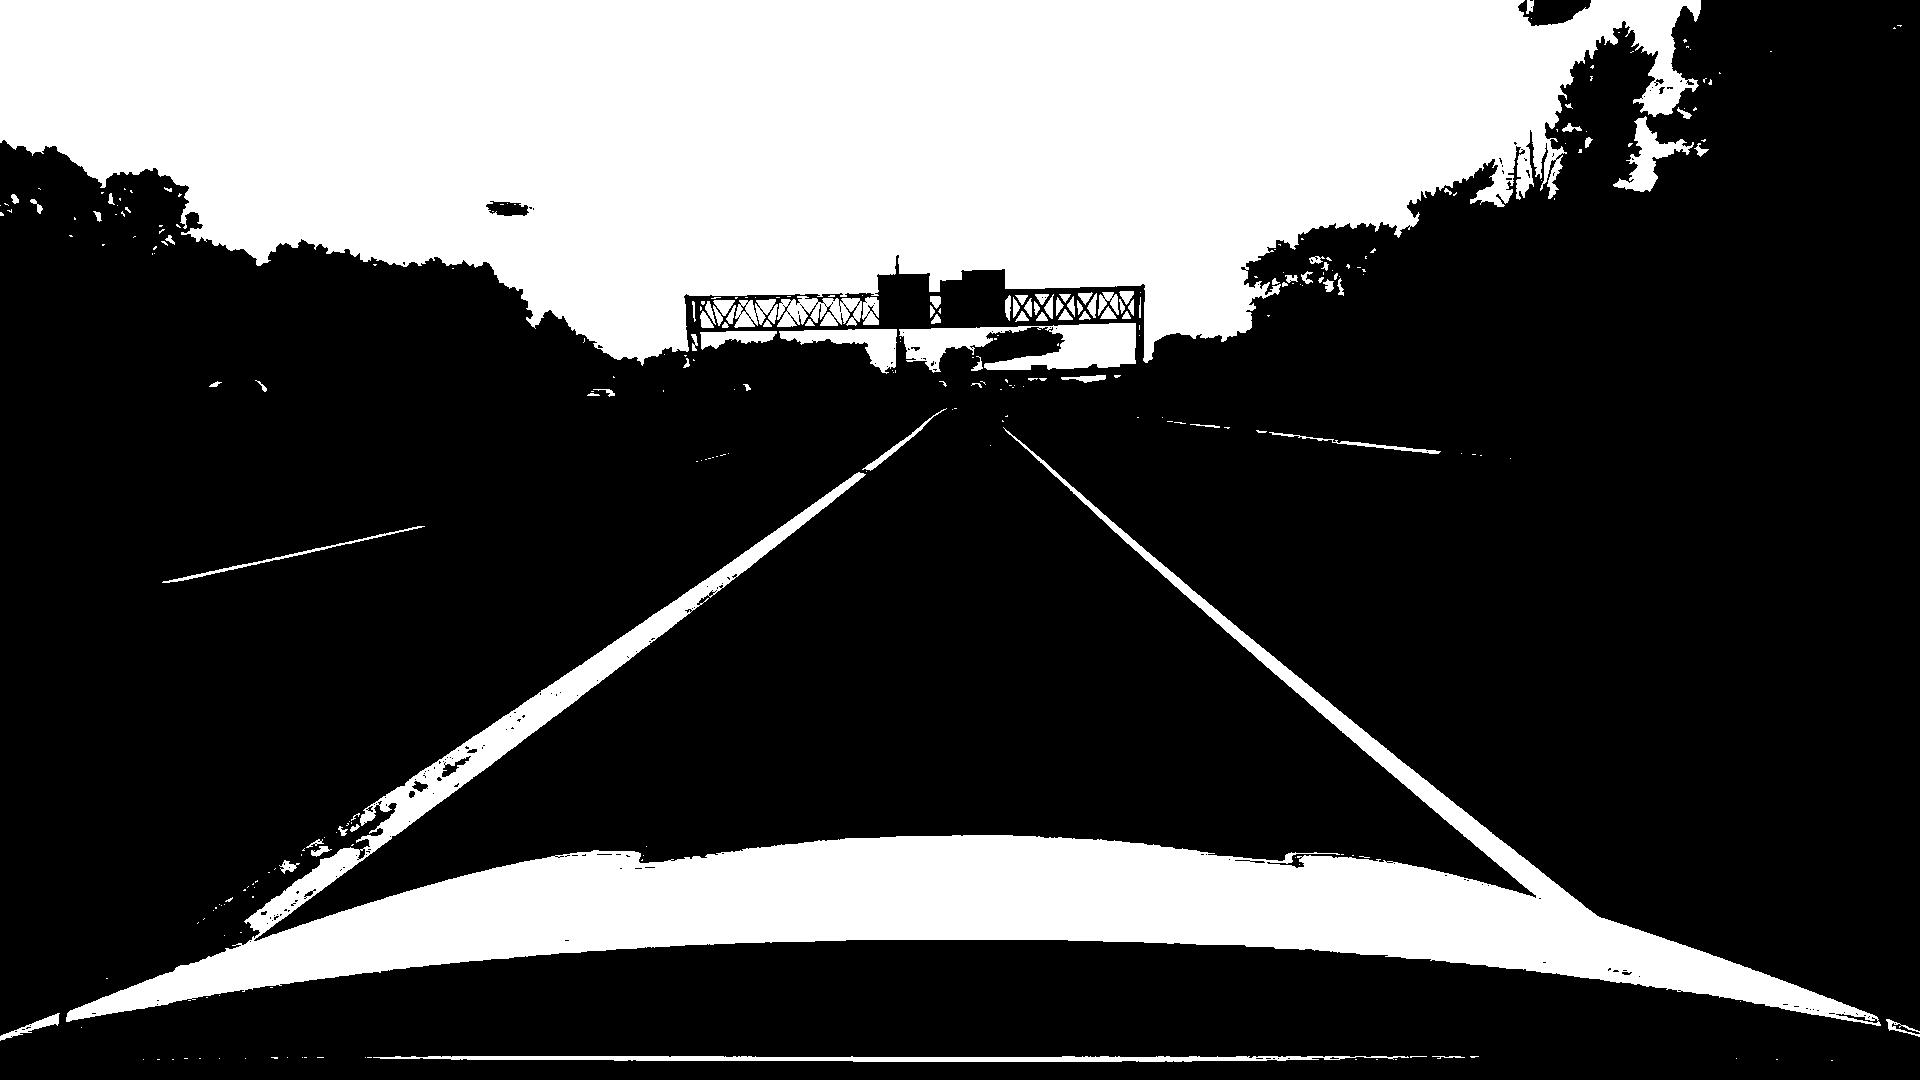
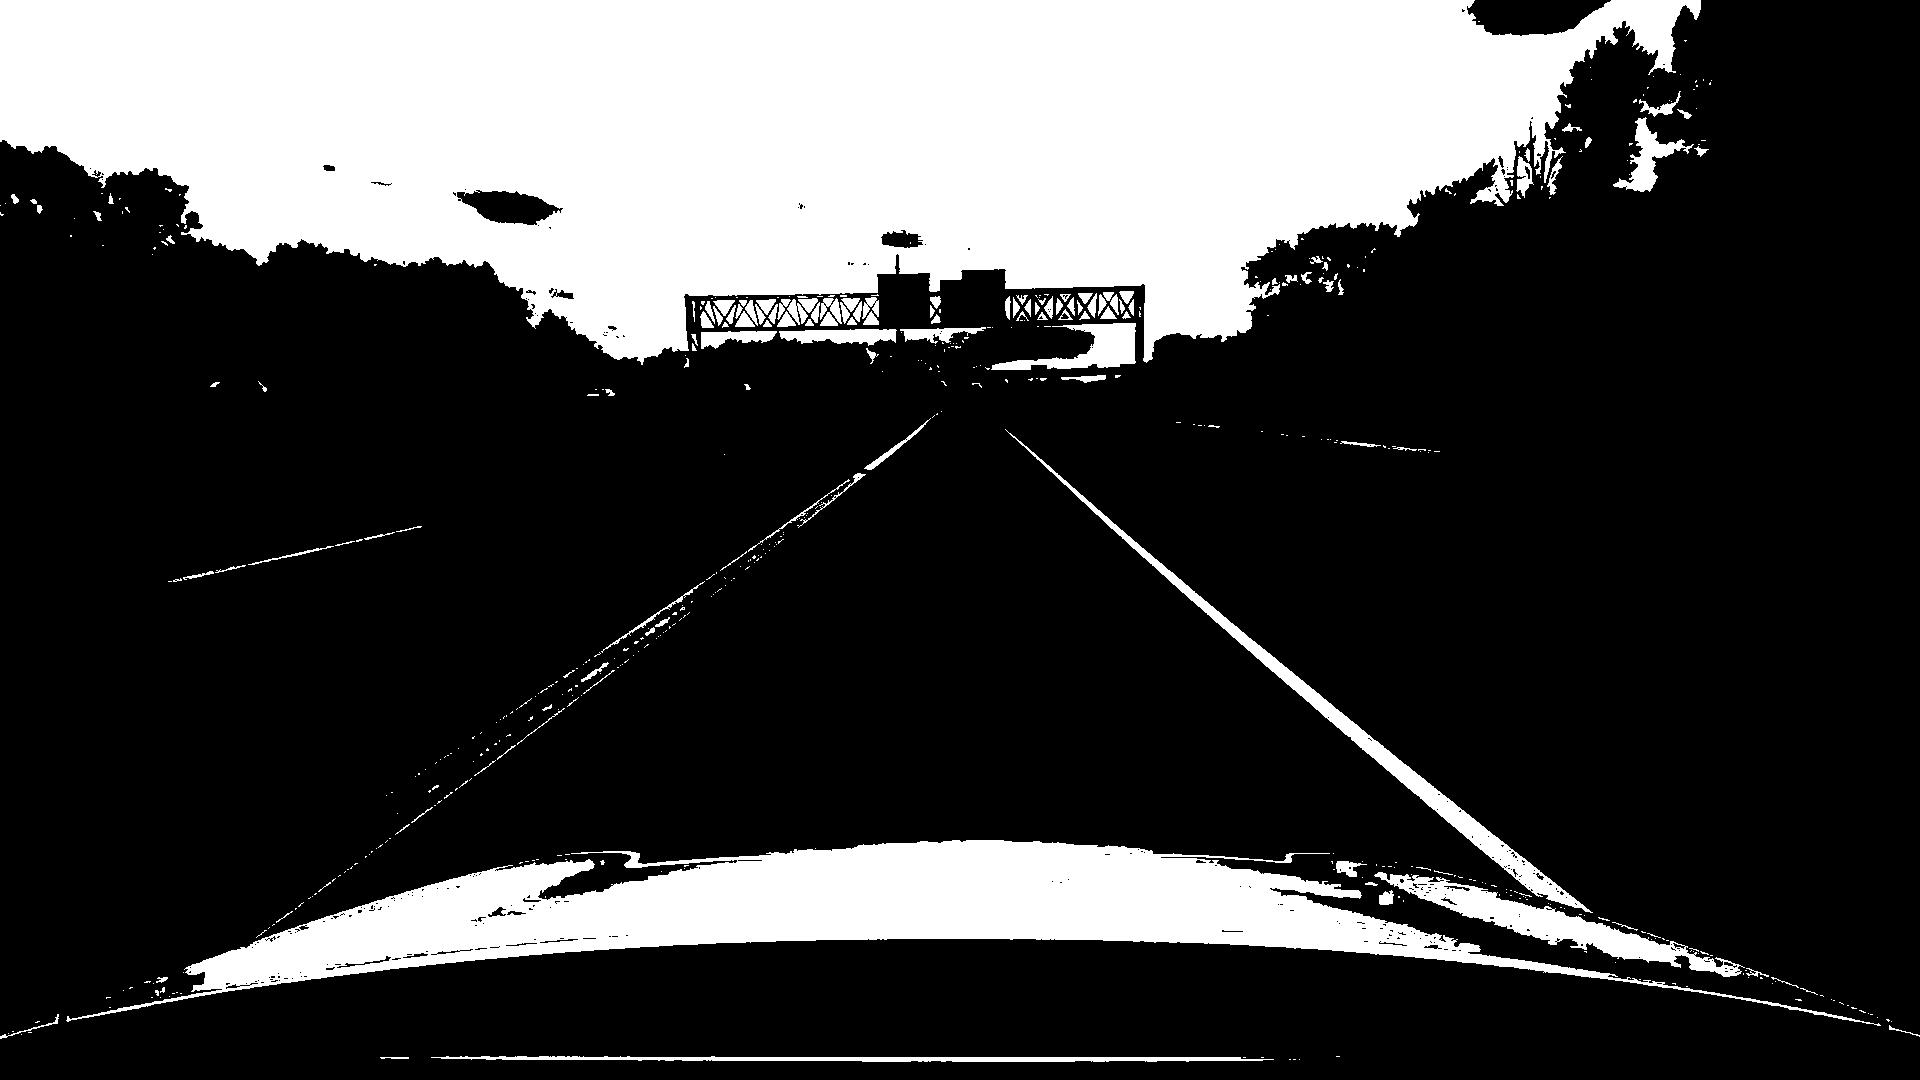
sobel mag image added with tweaked parameters for combined images

diff --git a/rough_work/test_image.py b/rough_work/test_image.py
@@ -4,7 +4,6 @@ import numpy as np
 import matplotlib.pyplot as plt
 import matplotlib.image as mpimg
 import glob
-import natsort
 import pickle
 
 
@@ -69,7 +68,7 @@ def abs_sobel_thresh(img, orient = 'x', sobel_kernel = 5, thresh = (0,255)):
 
 # this function accepts a RGB format image
 # function to check binary image of sobel magnitude
-def mag_sobel(img, sobel_kernel=3, thresh = (0,255)):
+def mag_sobel(img, sobel_kernel=3, thresh = (30,100)):
 
     # 1. Applying the Sobel (taking the derivative)
     sobelx = cv2.Sobel(img, cv2.CV_64F, 1, 0, ksize = sobel_kernel)
@@ -81,6 +80,7 @@ def mag_sobel(img, sobel_kernel=3, thresh = (0,255)):
     # 4. Create mask of '1's where the scaled gradient magnitude is > thresh_min and < thresh_max
     sobel_mag_image = np.zeros_like(scaled_sobel)
     sobel_mag_image[(scaled_sobel >= thresh[0]) & (scaled_sobel <= thresh[1])] = 1
+    
     return sobel_mag_image
 
 
@@ -102,7 +102,7 @@ def dir_threshold(img, sobel_kernel=3, thresh=(0, np.pi/2)):
     dir_image[(sobel_orient >= thresh[0]) & (sobel_orient <= thresh[1])] = 1
     return dir_image
 
-# --------------------------------------------------------------------------------------------------------------------------------- #
+# -------------------------------------------------------------------------------------------------- #
 
 
 
@@ -111,7 +111,7 @@ def combined_threshold(img):
 
     # convert to hls format and extract channels
     hls = cv2.cvtColor(img, cv2.COLOR_RGB2HLS)
-    hls = cv2.GaussianBlur(hls,(5,5),cv2.BORDER_DEFAULT)
+    hls = cv2.GaussianBlur(hls,(7,7),cv2.BORDER_DEFAULT)
     s_channel = hls[:,:,2]
 
     # convert image to grayscale
@@ -124,39 +124,44 @@ def combined_threshold(img):
 
     # get pixel intensity binary image
     # IMPORTANT: THIS FUNCION ACCEPTS GRAYSCALE IMAGES ONLY!!!
-    pixel_intensity_binary = pixel_intensity(gray, thresh = (150, 255))
+    pixel_intensity_binary = pixel_intensity(gray, thresh = (160, 255))
     
     # applying thresholding and storing different filtered images
     l_binary = lightness_select(hls, thresh = (140, 255))
     s_binary = saturation_select(hls, thresh = (100, 255))
 
-    ksize = 5
-    gradx = abs_sobel_thresh(gray_blurred, orient='x', sobel_kernel=ksize, thresh=(20, 100))
-    gradx_s_channel = abs_sobel_thresh(s_channel, orient='x', sobel_kernel=ksize, thresh=(20, 100))
+    ksize = 7
+    gradx = abs_sobel_thresh(gray_blurred, orient='x', sobel_kernel=ksize, thresh=(25, 100))
     # assuming lanelines are always at an angle between 30 and 45 degree to horizontal
-    dir_binary = dir_threshold(gray_blurred, sobel_kernel=ksize, thresh=(0.55, 0.7))
+    dir_binary = dir_threshold(gray_blurred, sobel_kernel=ksize, thresh=(0.55, 0.72))
+
+    sobel_img = mag_sobel(gray, 3, (25, 100))
 
 
     # ---------------------------- FUNCTION CALLS FOR THRESHOLDING END ------------------------------ #
 
 
     # creating an empty binary image
-    combined_binary = np.zeros_like(s_binary)
-    combined_binary[((pixel_intensity_binary == 1) | (l_binary == 1))] = 1
+    combined_binary_l_or_intensity = np.zeros_like(s_binary)
+    combined_binary_l_or_intensity[((pixel_intensity_binary == 1) | (l_binary == 1))] = 1
 
-    combined_binary1 = np.zeros_like(s_binary)
-    combined_binary1[((pixel_intensity_binary == 1) & (l_binary == 1))] = 1
+    combined_binary_l_and_intensity = np.zeros_like(s_binary)
+    combined_binary_l_and_intensity[((pixel_intensity_binary == 1) & (l_binary == 1))] = 1
+
+    # combined binary from X gradient, Saturation and Lightness
+    combined_binary2 = np.zeros_like(gradx)
+    combined_binary2[((sobel_img == 1) & (gradx == 1))] = 1
 
     # apply region of interest mask
-    height, width = combined_binary.shape
-    mask = np.zeros_like(combined_binary)
+    height, width = combined_binary_l_or_intensity.shape
+    mask = np.zeros_like(combined_binary_l_or_intensity)
     
     # define the region as 
     region = np.array([[0, height-1], [840, 400], [1080, 400], [width-1, height-1]], dtype=np.int32)
     # print(region)
     cv2.fillPoly(mask, [region], 1)
 
-    masked = cv2.bitwise_and(combined_binary, mask)
+    masked = cv2.bitwise_and(combined_binary_l_or_intensity, mask)
     
     # This section is only for saving the separated hls plots.
     # This is commented out after running it once...
@@ -182,13 +187,15 @@ def combined_threshold(img):
     mpimg.imsave(('./trial_images/l_binary-test8.jpg'), l_binary, cmap = 'gray')
     mpimg.imsave(('./trial_images/s_binary-test8.jpg'), s_binary, cmap = 'gray')
     mpimg.imsave(('./trial_images/gradx-test8.jpg'), gradx, cmap = 'gray')
-    mpimg.imsave(('./trial_images/gradx_s_channel-test8.jpg'), gradx_s_channel, cmap = 'gray')
+    
     mpimg.imsave(('./trial_images/direction-test8.jpg'), dir_binary, cmap = 'gray')
+    mpimg.imsave(('./trial_images/sobel_img-test8.jpg'), sobel_img, cmap = 'gray')
+
 
     # saving combined thresholded binary image
-    mpimg.imsave(('./trial_images/combined-l_OR_intensity.jpg'), combined_binary, cmap = 'gray')
-    mpimg.imsave(('./trial_images/combined-l_AND_intensity.jpg'), combined_binary1, cmap = 'gray')
-    
+    mpimg.imsave(('./trial_images/combined-l_OR_intensity.jpg'), combined_binary_l_or_intensity, cmap = 'gray')
+    mpimg.imsave(('./trial_images/combined-l_AND_intensity.jpg'), combined_binary_l_and_intensity, cmap = 'gray')
+    mpimg.imsave(('./trial_images/combined-sobel_AND_gradx.jpg'), combined_binary2, cmap = 'gray')
 
     # end of saving images section, comment out above section after saving the images
     
@@ -210,8 +217,8 @@ def perspective_view(img):
     # image points extracted from image approximately
     bottom_left = [340, 825]
     bottom_right = [1480, 825]
-    top_left = [880, 460]
-    top_right = [1040, 460]
+    top_left = [895, 445]
+    top_right = [1028, 445]
 
     src = np.float32([bottom_left, bottom_right, top_right, top_left])
 
